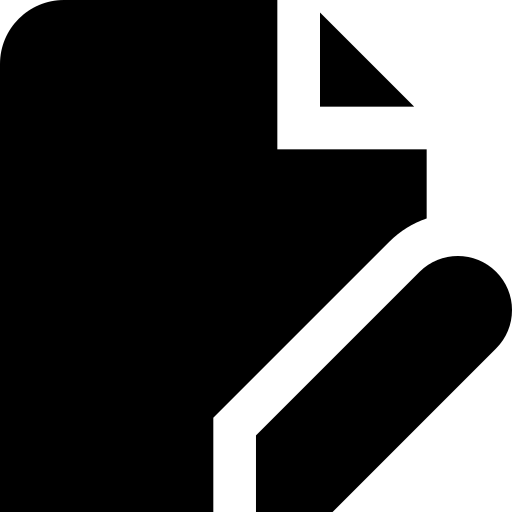
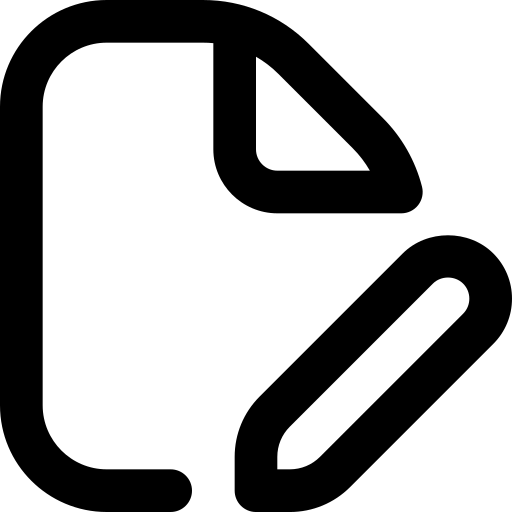
third version

diff --git a/src/app/components/task-item/task-item.component.html b/src/app/components/task-item/task-item.component.html
@@ -9,7 +9,7 @@
     <div class="info">
       <div class="title">{{ task.title }}</div>
       <div class="meta">
-        <img src="calendar.png" alt="Calendário" class="calendar">
+        <img src="calendar.png" alt="Calendário" class="calendar" />
         <span class="date">{{ formatDateBR(task.dueDate) }}</span>
         <span class="status">{{ task.done ? "Concluída" : "Pendente" }}</span>
       </div>
@@ -17,7 +17,12 @@
   </label>
 
   <div class="actions">
-    <button class="btn" (click)="edit.emit(task)">Editar</button>
-    <button class="btn danger" (click)="remove.emit(task.id)">Excluir</button>
+    <button class="btn" type="button" (click)="edit.emit(task)">
+      <img src="edit-file.png" alt="Editar" class="icon" />
+    </button>
+
+    <button class="btn danger" type="button" (click)="remove.emit(task.id)">
+      <img src="recycle-bin.png" alt="Excluir" class="icon" />
+    </button>
   </div>
 </div>

diff --git a/src/app/components/task-item/task-item.component.css b/src/app/components/task-item/task-item.component.css
@@ -58,8 +58,13 @@
   border: 1px solid #ccc;
   background: #f7f7f7;
   border-radius: 8px;
-  padding: 6px 10px;
+  width: 36px;
+  height: 36px;
+  padding: 0;
   cursor: pointer;
+  display: flex;
+  align-items: center;
+  justify-content: center;
 }
 
 .btn:hover {
@@ -86,4 +91,10 @@
   height: auto;
   display: block;
   flex: 0 0 auto;
+}
+
+.icon {
+  width: 18px;
+  height: 18px;
+  display: block;
 }

diff --git a/src/app/components/task-form/task-form.component.css b/src/app/components/task-form/task-form.component.css
@@ -17,7 +17,7 @@ input[type="date"] {
   border: 1px solid #ccc;
   flex: 1;
   min-width: 200px;
-  font-weight: 600;
+  font-weight: 400;
 }
 
 .btn {
@@ -32,6 +32,9 @@ input[type="date"] {
 .btn.primary {
   border-color: #b7d5ff;
   background: #e8f1ff;
+  font-size: 15px;
+  opacity: 0.8;
+  font-weight: 600;
 }
 
 .error-slot {

diff --git a/src/app/components/header/header.component.css b/src/app/components/header/header.component.css
@@ -17,6 +17,6 @@
 }
 
 .title {
-  font-weight: 500;
+  font-weight: 600;
   color: white;
 }
